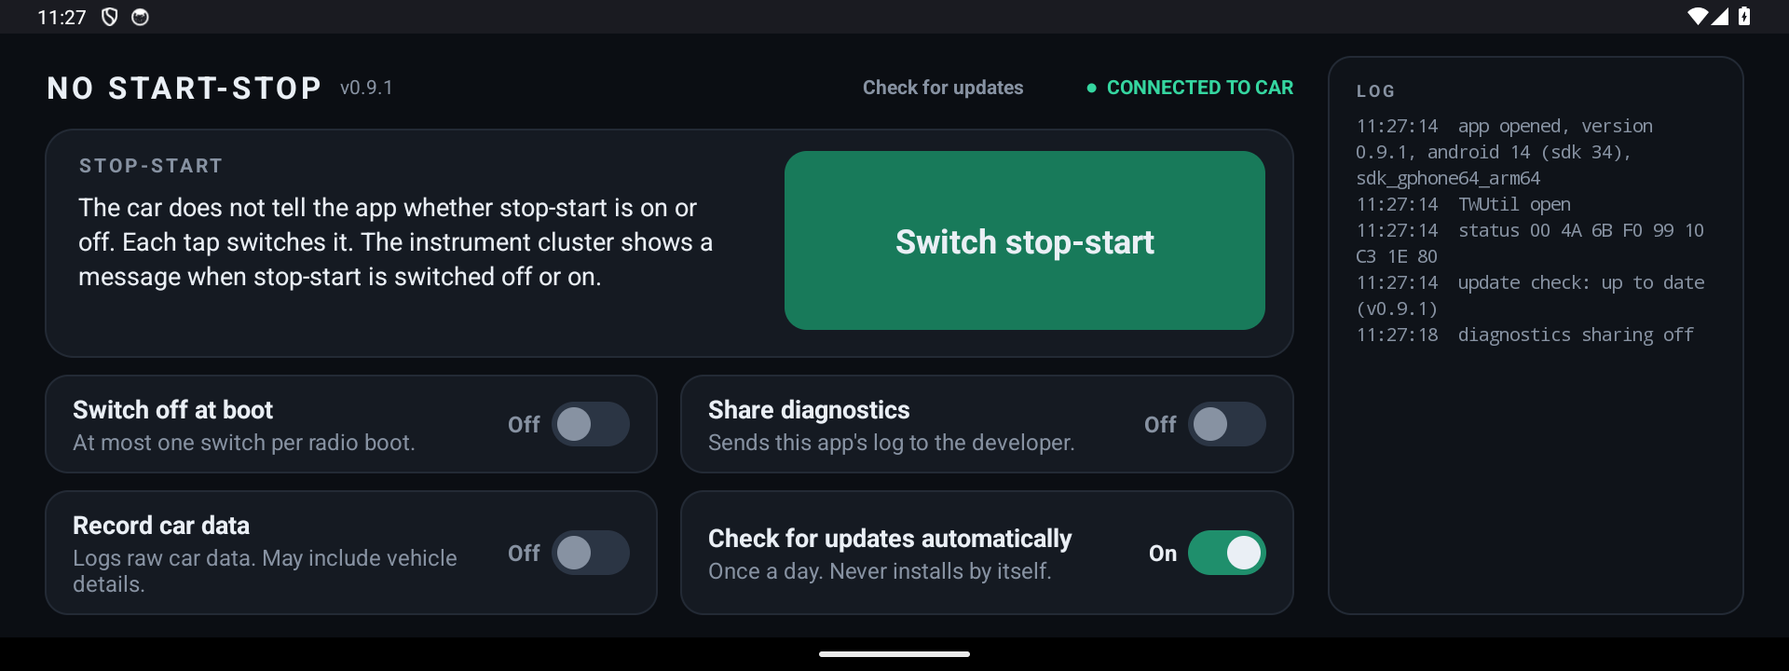
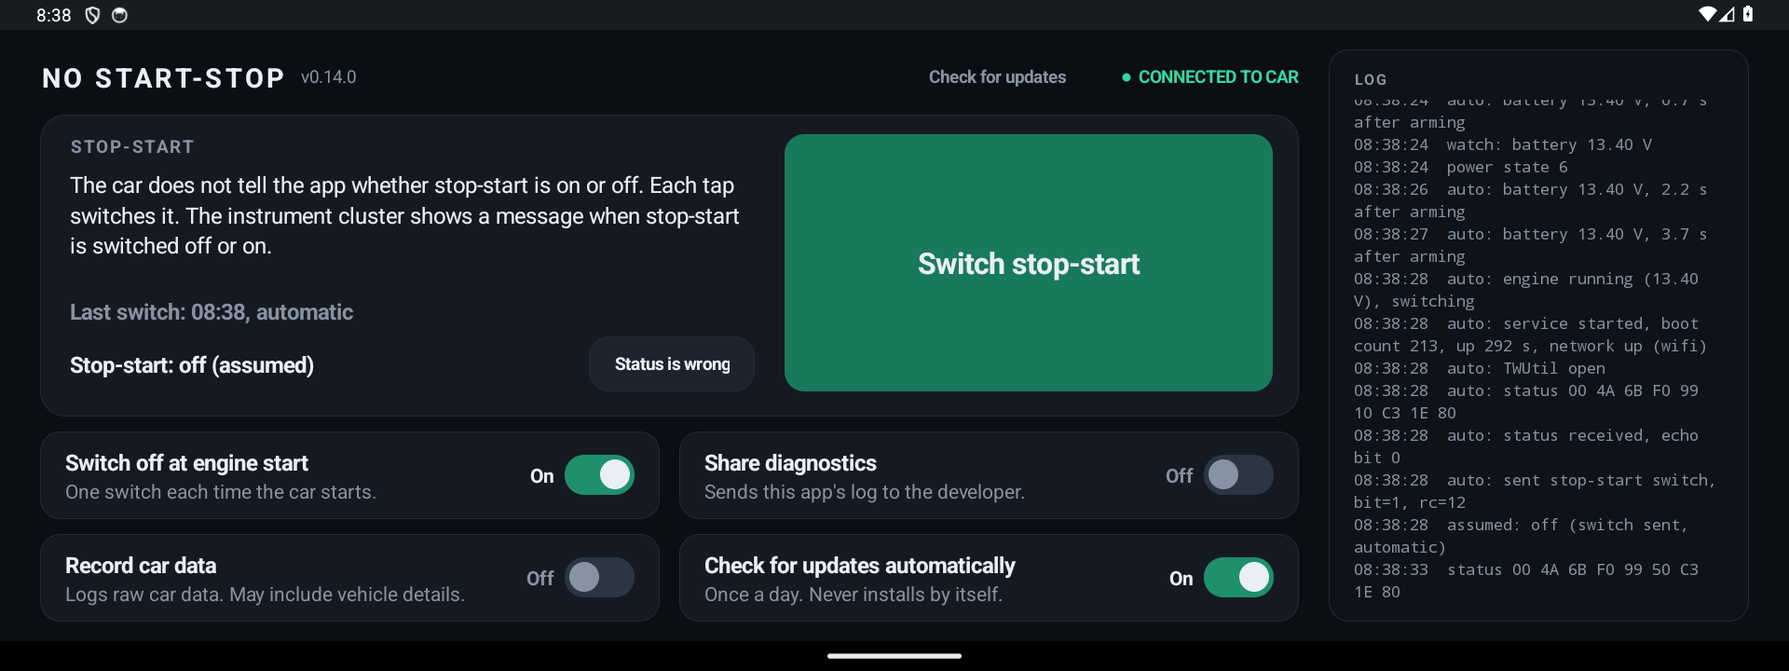
Refresh the README and its screenshots for v0.14.0

diff --git a/README.md b/README.md
@@ -22,11 +22,11 @@ On recent Euro 6 versions of these vans the physical stop-start button is gone, 
 
 It changes nothing in the car: no ECU reflash, no coding, no wiring. It sends the same command the car's own settings menu sends. Turn the automatic option off or uninstall the app and the van behaves exactly as it left the factory, for example for an inspection.
 
-![Main screen](docs/main.png)
+![Main screen during a drive, after the automatic switch: stop-start off (assumed)](docs/main.png)
 
 ![After a tap: sent, check the instrument cluster](docs/sent.png)
 
-The screenshots are from an emulator at 1920x720 with a simulated CAN box. On a device without the Topway framework the button is grey and sends nothing:
+The screenshots are from an emulator at 1920x720 with a simulated CAN box: the main screen during a drive, after **Switch off at engine start** sent its switch, and the same screen right after a tap. On a device without the Topway framework the button is grey and sends nothing:
 
 ![No link to the car](docs/unreachable.png)
 
@@ -39,48 +39,17 @@ The screenshots are from an emulator at 1920x720 with a simulated CAN box. On a 
   - "Sent at HH:mm. Check the instrument cluster." once the CAN box echoes the command. When the command's bit is 0 the echo cannot confirm it, so this shows as soon as it is sent.
   - "No answer from the car." when the command was sent but not echoed within 3 seconds. Check the instrument cluster before tapping again: the switch may have worked.
   - "No answer from the car. Nothing sent." when no status frame came within 3 seconds, and "Could not send to the car. Nothing sent." when the head unit refused the command.
+  - "Not connected to the car. Nothing sent." for a tap while the top right says "NO LINK TO CAR".
 
-  Taps are ignored while a command is pending, for 2 seconds after each command is sent, and while **Switch off at engine start** is sending ("Switching…"), so a double tap does not switch it straight back. When idle, the card shows the last switch sent since the head unit last woke up, for example "Last switch: 08:41, automatic".
+  Taps are ignored while a command is pending, for 2 seconds after each command is sent, and while **Switch off at engine start** is sending ("Switching…"), so a double tap does not switch it straight back. When idle, the card shows the last switch sent in the current ignition cycle, for example "Last switch: 08:41, automatic".
 - **Switch off at engine start**: off by default. When on, the app sends one switch command each time the car starts. The car turns stop-start on at every engine start, so one switch turns it off. See [how it works and its limits](#switch-off-at-engine-start-how-and-limits).
 - **Record car data**: off by default. When on, the log also records the raw frames the CAN box passes on from the car, engine speed (rpm) and vehicle speed, battery voltage and the head unit's identity and configuration, to help find where the car reports the real stop-start state. This data may include vehicle details (for example the VIN, speed or position), so leave it off unless you are helping with that.
-- **Log**: the commands sent, the CAN box status frames, the CAN box function frame, boot, screen, shutdown and network events, and any errors.
+- **Log**: the commands sent, the CAN box status frames, the CAN box function frame, what the automatic switch saw and did (ignition, engine starts, battery voltage), the assumed state, boot, screen, shutdown and network events, and any errors. See [Getting the log off the head unit](#getting-the-log-off-the-head-unit).
 - **Check for updates**: downloads and installs the latest release when you ask for it.
 - **Check for updates automatically**: on by default. About once a day, and after a boot once there is a connection, the app checks for a new release and shows a notification. It never installs by itself. See [Updating from the app](#updating-from-the-app).
-- **Share diagnostics**: asked on first launch, with a switch to change it later. Sends the app's log lines to the developer.
+- **Share diagnostics**: asked on first launch, with a switch to change it later. Sends the app's log lines to the developer. Only in release builds. See [Diagnostics](#diagnostics).
 
 There is no "keep it off" or lock option: the vendor app's "permanently closed" setting has no effect on this van, and stop-start is on again after every engine start whatever it is set to.
-
-### Switch off at engine start: how and limits
-
-The head unit does not reboot at each engine start. At ignition off it reports power state 1 and stops the app a few seconds later; at ignition on it starts the app again. While the option is on, the app keeps a small background service running (with a silent notification) that listens to the head unit's power state and battery voltage.
-
-A new ignition cycle starts when:
-
-- the service starts after the head unit last reported ignition off (the app remembers this across the restart), or
-- the engine is started: the head unit reports a crank (power state 9) and then 6 a few seconds later.
-
-After that the app waits until a battery reading of 13.0 V or more arrives, at least 5 seconds have passed and no crank is in progress, and then sends one switch. After an engine start, readings from the crank count too. After an engine start, if the engine is not seen running within 3 minutes, nothing is sent. After an ignition on there is no time limit, since the app may be restarted while the head unit is still off; it waits until the engine runs or the ignition is reported off again. Without battery readings nothing is sent. Each engine start gets its own switch, because the car turns stop-start back on every time; two crank ends less than 5 seconds apart count as one.
-
-- The app must be running at engine start. Today that is only known to happen when it was the last app on screen at ignition off, because the head unit then reopens it. Otherwise nothing is sent and stop-start stays on.
-- It sends at most one switch per cycle, and none if you already switched from the screen in that cycle. An engine start after a switch, by tap or automatic, always starts a new cycle, because the engine start turned stop-start back on.
-- A boot, a restart or an update of the app counts as ignition on only if the ignition was reported off before it and no switch was sent since, by the app or by a tap. Then stop-start is on, so if the engine is already running the app sends one switch, even late in a drive. Otherwise such a start sends nothing.
-- A charger that holds the battery at 13.0 V or more with the engine off can make the app send one switch it should not.
-- Broadcasts such as `ACC_ON` are only logged. Any app can send them, so they never start a cycle or cause a switch.
-- If the link to the car does not come up within 30 seconds, nothing is sent.
-- If the head unit refuses the command, nothing is sent and it is not retried until the next wake. The main screen then says "Automatic switch failed. Tap to switch." until you switch from the screen.
-
-### The assumed stop-start state
-
-The car turns stop-start on at every engine start, and each switch command flips it. So the app assumes stop-start is on when a cycle starts (an ignition on or an engine start it noticed), and flips the assumed state for each switch it actually sent in that cycle, by a tap or automatically, and for each **Status is wrong** tap. A switch sent during an engine crank counts for that engine start. The assumed state survives the app being stopped in the middle of a drive. It is only shown and logged; it does not decide whether anything is sent.
-
-It needs **Switch off at engine start** on: only then does the app follow the ignition. It is unknown:
-
-- until the app has seen a cycle start, for example after a reboot;
-- from ignition off until the next cycle;
-- while **Switch off at engine start** is off, and after it is turned off until the next cycle;
-- when the background service could not start or gets no power messages from the head unit, until the next cycle.
-
-It is a model, not a reading from the car. It is wrong after a switch the car ignored (for example one sent with the engine off), after an engine start the app missed, or after a stop-start change made from the car's own menu. That is what **Status is wrong** is for: the log line it writes shows what led to the mistake.
 
 ## Install from a USB pendrive
 
@@ -89,8 +58,8 @@ It is a model, not a reading from the car. It is wrong after a switch the car ig
 3. Plug the pendrive into the head unit's USB port.
 4. Open the head unit's **APK Installer** app (or its file manager), pick the USB drive and tap the APK.
 5. If Android asks, allow installing from unknown sources for that app, then tap **Install**.
-6. Open **No Start-Stop** once from the app list. Android does not deliver the boot event to an app that has never been opened.
-7. Turn **Switch off at engine start** on if you want it sent automatically.
+6. Open **No Start-Stop** once from the app list. Android does not start an app that has never been opened, not even in the background.
+7. Turn **Switch off at engine start** on if you want it sent automatically. Leave the app on screen when you switch the ignition off; see [the limits](#switch-off-at-engine-start-how-and-limits).
 
 To update, install the new APK over the old one the same way. Release APKs all share one signing key, so they update each other. A locally built APK is signed with your own debug key: uninstall the old version before switching between a release and a local build.
 
@@ -111,19 +80,72 @@ Turn the switch off to stop all background update checks. The **Check for update
 
 Apart from that check and **Share diagnostics**, the app only uses the network when you tap the button: it asks `api.github.com` for the latest release and downloads the APK from `github.com`. Android refuses any APK that is not signed with the same key as the installed app, so a locally built (debug-signed) install cannot be updated this way.
 
+## Switch off at engine start: how and limits
+
+This was measured on the van's head unit. It does not reboot at each engine start: it sleeps at ignition off and wakes at ignition on, so Android's boot event rarely comes. At ignition off it reports power state 1 and stops the app a few seconds later. At ignition on it opens again the app that was on screen, and by the time it is awake the engine is usually already running. While the option is on, the app keeps a small background service running (with a silent notification) that listens to the head unit's power state and battery voltage.
+
+A new ignition cycle starts when:
+
+- the service starts after the head unit last reported ignition off (the app remembers this across the restart). This is the usual case; or
+- the engine is started while the app is running: the head unit reports a crank (power state 9) and then 6 a few seconds later. This covers a quick ignition off and on, and a second engine start in the same drive.
+
+After that the app waits until a battery reading of 13.0 V or more arrives, at least 5 seconds have passed and no crank is in progress, and then sends one switch. After an engine start, readings from the crank count too. After an engine start, if the engine is not seen running within 3 minutes, nothing is sent. After an ignition on there is no time limit, since the app may be restarted while the head unit is still off; it waits until the engine runs or the ignition is reported off again. Without battery readings nothing is sent. Each engine start gets its own switch, because the car turns stop-start back on every time; two crank ends less than 5 seconds apart count as one.
+
+- On the van this sent the switch at every engine start tested (3 of 3), and the instrument cluster showed its "disabled" message each time.
+- The app must be running after ignition on. That is known to happen when it was the app on screen at ignition off, because the head unit then reopens it. Whether the head unit also restarts the app, or its background service, when another app was on screen is not verified; if it does not, nothing is sent and stop-start stays on.
+- It sends at most one switch per cycle, and none if you already switched from the screen in that cycle. An engine start after a switch, by tap or automatic, always starts a new cycle, because the engine start turned stop-start back on.
+- A boot, a restart or an update of the app counts as ignition on only if the ignition was reported off before it and no switch was sent since, by the app or by a tap. Then stop-start is on, so if the engine is already running the app sends one switch, even late in a drive. Otherwise such a start sends nothing.
+- A charger that holds the battery at 13.0 V or more with the engine off can make the app send one switch it should not.
+- Broadcasts such as `ACC_ON` are only logged. Any app can send them, so they never start a cycle or cause a switch.
+- If the link to the car does not come up within 30 seconds, nothing is sent.
+- If the head unit refuses the command, nothing is sent and it is not retried until the next cycle. The main screen then says "Automatic switch failed. Tap to switch." until you switch from the screen.
+
+## The assumed stop-start state
+
+The car turns stop-start on at every engine start, and each switch command flips it. So the app assumes stop-start is on when a cycle starts (an ignition on or an engine start it noticed), and flips the assumed state for each switch it actually sent in that cycle, by a tap or automatically, and for each **Status is wrong** tap. A switch sent during an engine crank counts for that engine start. The assumed state survives the app being stopped in the middle of a drive. It is only shown and logged; it does not decide whether anything is sent.
+
+It needs **Switch off at engine start** on: only then does the app follow the ignition. It is unknown:
+
+- until the app has seen a cycle start, for example after a reboot;
+- from ignition off until the next cycle;
+- while **Switch off at engine start** is off, and after it is turned off until the next cycle;
+- when the background service could not start, gets no power messages from the head unit, or its link to the head unit goes silent, until the next cycle.
+
+It is not verified on the van yet. It is a model, not a reading from the car. It is wrong after a switch the car ignored (for example one sent with the engine off), after an engine start the app missed, or after a stop-start change made from the car's own menu. That is what **Status is wrong** is for: the log line it writes shows what led to the mistake.
+
+## Troubleshooting
+
+- **Log shows `TWUtil unavailable`**: Android is blocking the vendor class for a non-system app. With adb: `adb shell settings put global hidden_api_policy 1`.
+- **"NO LINK TO CAR" and a grey button**: the app could not open the head unit's link to the car, usually the `TWUtil unavailable` case above. The card says "This head unit did not let the app reach the car." Nothing is sent in this state.
+- **"No answer from the car."**: the command was sent but the CAN box did not echo it within 3 seconds. Check the instrument cluster before tapping again, since the switch may have worked, and the log for the `sent stop-start switch` line and its `rc`.
+- **"No answer from the car. Nothing sent."**: the CAN box did not send a status frame within 3 seconds of the tap, so no command was sent. Wait for "CONNECTED TO CAR" and tap again.
+- **The instrument cluster showed no message after a tap**: the command may not have changed bit 0 for the car, or the car ignored it. Wait 10 seconds, then tap once more and watch the cluster. If it still shows nothing, share the log: the `sent stop-start switch` and `status` lines around the tap show what happened.
+- **Stop-start ends up on after a tap**: each tap flips it, so it was off before. Tap once more and check the instrument cluster message.
+- **Switch off at engine start does nothing**: open the app once after installing, and leave it on screen when you switch the ignition off. Then check the log for `wake` and `auto:` lines after an engine start; without a `wake` line the app did not notice the ignition on or the engine start. `auto: battery …` lines show the voltages it saw while waiting.
+- **Stop-start is on after an engine start with Switch off at engine start on**: the app probably was not running at that engine start, or the car ignored the switch. If the screen says "off (assumed)", tap **Status is wrong** first so the log records it. Then tap **Switch stop-start** once and share the log.
+- **"Stop-start: unknown"**: the app has not seen the ignition come on or an engine start since it started, or the automatic switch is off. See [the assumed state](#the-assumed-stop-start-state).
+
+## Status
+
+- Tested on a real Jumpy head unit (Android 10). The switch command works: every command that changes bit 0 flips stop-start, and the instrument cluster shows a message each time.
+- **Switch off at engine start** works on the van: it switched stop-start off at each of 3 engine starts tested. Not verified: whether the head unit restarts the app's background service when another app was on screen at ignition off.
+- The assumed stop-start state and **Status is wrong** are not verified on the van yet.
+- The car's real stop-start state is not readable through the settings frame. The app logs the function frame (`function …` lines), a candidate for it, and with **Record car data** on the other CAN box frames (`frame …` lines) so it can be looked for.
+- "Permanently closed" does nothing on this van.
+
 ## Diagnostics
 
-The first time a release build is opened it asks **Share diagnostics?**. Nothing is sent before you answer. If you choose **Share**, each line the app writes to its log is also sent to the developer's [PostHog](https://posthog.com) project, so problems can be diagnosed without copying the log file by hand. The **Share diagnostics** switch on the main screen changes your answer at any time. With **Record car data** on, the log also holds raw car data that may include vehicle details. Lines are uploaded in batches, at most one request every 3 seconds.
+The first time a release build is opened it asks **Help fix problems?**, with **Share** and **Don't share**. Nothing is sent before you answer. If you choose **Share**, each line the app writes to its log is also sent to the developer's [PostHog](https://posthog.com) project, so problems can be diagnosed without copying the log file by hand. The **Share diagnostics** switch on the main screen changes your answer at any time. With **Record car data** on, the log also holds raw car data that may include vehicle details. Lines are uploaded in batches, a few seconds after they are logged.
 
 What is sent with each line:
 
-- the log line itself (the same text as in the LOG panel: commands sent, CAN box status frames, errors, boot activity);
+- the log line itself (the same text as in the log file: commands sent, CAN box status frames, the automatic switch, the assumed state, errors, boot activity);
 - the app version, the Android SDK level and the head unit's model name;
 - a random id created for this install, so lines from one head unit can be told apart. It is not tied to you or to the vehicle.
 
-Always logged: the commands sent, the status (`status …`) and function (`function …`) frames from the CAN box, boot count and uptime, screen on/off, shutdown and network up/down. The function frame is expected to hold only the car's feature flags, but that is not verified. Only logged while **Record car data** is on: `frame …`, `engine …`, `battery …`, `unit id …` and `unit config …`, and the engine speed on `sent stop-start switch` lines. Those lines are only sent if **Share diagnostics** is on too. Switching **Record car data** off stops new lines; lines already in the log file stay there.
+Always logged: the commands sent, the status (`status …`) and function (`function …`) frames from the CAN box, boot count and uptime, screen on/off, shutdown and network up/down, and the assumed state. While **Switch off at engine start** is on, also the head unit's power state, wakes, battery voltage (`watch: battery …`) and what the automatic switch did. The function frame is expected to hold only the car's feature flags, but that is not verified. Only logged while **Record car data** is on: `frame …`, `engine …`, `battery …` (from the screen), `unit id …` and `unit config …`, and the engine speed on `sent stop-start switch` lines. Those lines are only sent if **Share diagnostics** is on too. Switching **Record car data** off stops new lines; lines already in the log file stay there.
 
-Nothing is sent while the switch is off. Lines logged while the head unit is offline are kept in the app's private storage, one file per day (UTC). Once a day is over its file is compressed. Together they are kept up to 5 MB or 30 days; past that the oldest days are deleted first. The current day may use at most 1 MB of that, so a burst of lines drops its own oldest lines instead of older days. They are sent the next time a line is logged with a connection, or by the background job that Android runs once there is a network after a boot, when the app is opened and about once a day (logged as `diagnostics: sent N queued lines`). The current day goes first, then the older days from oldest to newest, up to 500 lines per request and 20 requests at a time; the rest waits for the next send. After a failed upload, new lines wait 1 minute before the next try, doubling up to 15 minutes; the background job always tries. That job runs for this alone when **Check for updates automatically** is off. Switching it off discards anything not sent yet and forgets the random id, so switching it on again starts with a new one.
+Nothing is sent while the switch is off. With it on, lines are kept in the app's private storage until they are sent, one file per day (UTC). Once a day is over its file is compressed. Together they are kept up to 5 MB or 30 files; past that the oldest days are deleted first. The current day may use at most 1 MB of that, so a burst of lines drops its own oldest lines instead of older days. They are sent the next time a line is logged with a connection, or by the background job that Android runs once there is a network after a boot, when the app is opened and about once a day (logged as `diagnostics: sent N queued lines`). The current day goes first, then the older days from oldest to newest, up to 500 lines per request and 20 requests at a time; the rest waits for the next send. After a failed upload, new lines wait 1 minute before the next try, doubling up to 15 minutes; the background job always tries. That job runs for this alone when **Check for updates automatically** is off. Switching it off discards anything not sent yet and forgets the random id, so switching it on again starts with a new one.
 
 The switch only appears in builds made with a PostHog key. Release builds get it from the repository variables `POSTHOG_KEY` and `POSTHOG_HOST`; a local build has no key unless you set those environment variables for `build.sh`. The key is a public, write-only project key.
 
@@ -145,7 +167,7 @@ To copy it without adb:
 
 Each line has a date and time. Lines to look for:
 
-- `app opened, version …, android …, boot count 7, up 42 s, network up (wifi)`: app and Android version, how many times the head unit has booted, seconds since it booted, and the network state. `boot count unknown` before Android 7.
+- `app opened, version …, android … (sdk …), <model>, boot count 7, up 42 s, network up (wifi)`: app and Android version, the head unit's model name, how many times the head unit has booted, seconds since it booted, and the network state. `boot count unknown` before Android 7.
 - `TWUtil open` / `TWUtil unavailable: …`: whether the head unit's MCU link works. With **Record car data** on, `TWUtil open, CAN box only (engine and unit ids refused: …)` means the head unit refused the engine and unit messages; the switch works the same.
 - `status 00 4A …`: the raw settings frame (id 56) from the CAN box, logged whenever it changes.
 - `function 05 12 02 01 (stop-start field=2)`: the CAN box function frame (id 57), asked for after the first status frame when the link opens and 1.5 and 5 seconds after each switch, logged when it changes since the app started (at most 40 lines each time the app connects). The field is a candidate for the real stop-start state (1 on, 2 off, 0 not reported); it is not verified and the app does not use it.
@@ -161,6 +183,35 @@ Each line has a date and time. Lines to look for:
 - `shutdown, up … s`: the head unit shut down cleanly. Android 9 and later only tell the app while it is running (open or in the background), so on those a missing line does not prove a power cut.
 
 With adb the same file is at `adb pull /sdcard/Android/data/com.furgo.nostartstop/files/nostartstop.log`.
+
+## How it works
+
+The head unit's MCU relays CAN box frames through the framework class `android.tw.john.TWUtil`. `stubs/` holds a compile-only stub of it; the real class comes from the device.
+
+| Action | Call |
+|---|---|
+| Query settings status | `write(1281, 143, 2, {56, 0})` |
+| Switch stop-start | `write(1281, 128, 2, {13, value})`. Every command that changes bit 0 flips stop-start on the car, so the app sends the opposite of the echo bit in a status frame it has just asked for (the automatic switch sends 1 if no frame arrives within 5 seconds). Bit 7 ("service permanently closed") has no effect on this van and is always sent as 0 |
+| Status frame | message `what = 1281`, `arg1 = 56`, 9 bytes. `byte[5]` bit 6 echoes bit 0 of the last command and clears by itself after about 8 seconds; it is **not** the stop-start state. No byte of this frame was seen to follow the real state |
+
+These were read from the decompiled vendor app `com.tw.car` (`PsaRaiseSettingsActivity`) and checked on the van. The vendor app reads `byte[5]` bit 6 as the stop-start state, so it shows the same wrong value.
+
+The automatic switch uses two head unit messages, found in the vendor code and checked on the van:
+
+| Data | Call |
+|---|---|
+| Power state | message `what = 514`, `arg1`: 1 at ignition off, 9 while the engine cranks, then 6 a few seconds later. The head unit also answers 6 every time the link is opened |
+| Battery | message `what = 1292`, `arg1 = 0`: `((b[0] & 0x7F) << 8 \| b[1]) * 0.01` V when `b[0]` bit 7 is clear. About 12.0 V with the engine off, above 13 V with it running |
+
+The app also logs these, which come from the vendor code and are **not verified** on the van. Nothing depends on them:
+
+| Data | Call |
+|---|---|
+| Function frame (candidate stop-start state) | query `write(1281, 143, 2, {57, 0})`, answered as frame 57. `byte[2]` bits 1-0 may be the state (1 on, 2 off, 0 not reported); the box may instead answer with a text list, so the raw bytes are logged |
+| Engine | message `what = 1291`: `arg1` speed, `arg2` rpm (65535 invalid) |
+| Head unit identity | `write(266, 255, 0)` answered by `what = 266` with a text; `write(267, 255, 0)` by `what = 267` with a block of bytes |
+
+The screen opens the engine, battery and identity messages, together with the CAN box, only while **Record car data** is on. Turning it on takes effect for them the next time the app's screen is shown. If the head unit refuses them, the app opens the CAN box alone, as before. The automatic switch opens the CAN box alone to send; its background service opens only the power state (514) and battery messages, and reopens them if they stay silent for a minute.
 
 ## Install with adb
 
@@ -243,46 +294,6 @@ git tag v0.2.0 && git push origin v0.2.0
 [Renovate](https://docs.renovatebot.com/) (`renovate.json`) opens pull requests for new versions of the GitHub Actions (keeping them pinned to commit SHAs) and the pinned JDK patch level. It needs the Renovate GitHub App installed on the repository.
 
 Releases are signed with the key in the repository secrets `RELEASE_KEYSTORE_B64` (base64 of a PKCS12 keystore, alias `release`) and `RELEASE_KEYSTORE_PASSWORD`. A release build fails if they are missing. Keep a copy of that keystore: if it is lost, later releases cannot update earlier installs.
-
-## How it works
-
-The head unit's MCU relays CAN box frames through the framework class `android.tw.john.TWUtil`. `stubs/` holds a compile-only stub of it; the real class comes from the device.
-
-| Action | Call |
-|---|---|
-| Query settings status | `write(1281, 143, 2, {56, 0})` |
-| Switch stop-start | `write(1281, 128, 2, {13, value})`. Every command that changes bit 0 flips stop-start on the car, so the app sends the opposite of the echo bit in a status frame it has just asked for (the automatic switch sends 1 if no frame arrives within 5 seconds). Bit 7 ("service permanently closed") has no effect on this van and is always sent as 0 |
-| Status frame | message `what = 1281`, `arg1 = 56`, 9 bytes. `byte[5]` bit 6 echoes bit 0 of the last command and clears by itself after about 8 seconds; it is **not** the stop-start state. No byte of this frame was seen to follow the real state |
-
-These were read from the decompiled vendor app `com.tw.car` (`PsaRaiseSettingsActivity`) and checked on the van. The vendor app reads `byte[5]` bit 6 as the stop-start state, so it shows the same wrong value.
-
-The app also logs these, which come from the vendor code and are **not verified** on the van. Nothing depends on them:
-
-| Data | Call |
-|---|---|
-| Function frame (candidate stop-start state) | query `write(1281, 143, 2, {57, 0})`, answered as frame 57. `byte[2]` bits 1-0 may be the state (1 on, 2 off, 0 not reported); the box may instead answer with a text list, so the raw bytes are logged |
-| Engine | message `what = 1291`: `arg1` speed, `arg2` rpm (65535 invalid) |
-| Battery | message `what = 1292`, `arg1 = 0`: `((b[0] & 0x7F) << 8 \| b[1]) * 0.01` V when `b[0]` bit 7 is clear |
-| Head unit identity | `write(266, 255, 0)` answered by `what = 266` with a text; `write(267, 255, 0)` by `what = 267` with a block of bytes |
-
-The engine, battery and identity messages are only opened, together with the CAN box, while **Record car data** is on. Turning it on takes effect for them the next time the app's screen is shown. If the head unit refuses them, the app opens the CAN box alone, as before. The automatic switch opens the CAN box alone to send; its background service opens only the power state (514) and battery messages, and reopens them if they stay silent for a minute.
-
-## Status
-
-- Tested on a real Jumpy head unit (Android 10). The switch command works: every command that changes bit 0 flips stop-start, and the instrument cluster shows a message each time.
-- The car's real stop-start state is not readable through the settings frame. The app logs the function frame (`function …` lines), a candidate for it, and with **Record car data** on the other CAN box frames (`frame …` lines) so it can be looked for.
-- "Permanently closed" does nothing on this van.
-
-## Troubleshooting
-
-- **Log shows `TWUtil unavailable`**: Android is blocking the vendor class for a non-system app. With adb: `adb shell settings put global hidden_api_policy 1`.
-- **"NO LINK TO CAR" and a grey button**: the app could not open the head unit's link to the car, usually the `TWUtil unavailable` case above. Nothing is sent in this state.
-- **"No answer from the car."**: the command was sent but the CAN box did not echo it within 3 seconds. Check the instrument cluster before tapping again, since the switch may have worked, and the log for the `sent stop-start switch` line and its `rc`.
-- **"No answer from the car. Nothing sent."**: the CAN box did not send a status frame within 3 seconds of the tap, so no command was sent. Wait for "CONNECTED TO CAR" and tap again.
-- **The instrument cluster showed no message after a tap**: the command may not have changed bit 0 for the car, or the car ignored it. Wait 10 seconds, then tap once more and watch the cluster. If it still shows nothing, share the log: the `sent stop-start switch` and `status` lines around the tap show what happened.
-- **Stop-start ends up on after a tap**: each tap flips it, so it was off before. Tap once more and check the instrument cluster message.
-- **Switch off at engine start does nothing**: open the app once after installing. Then check the log for `wake` and `auto:` lines after an engine start; without a `wake` line the app did not notice the ignition on or the engine start. `auto: battery …` lines show the voltages it saw while waiting.
-- **Stop-start is on after an engine start with Switch off at engine start on**: the head unit probably woke or booted twice in the same engine run, so the second switch turned it back on. Tap the button once.
 
 ## License
 
